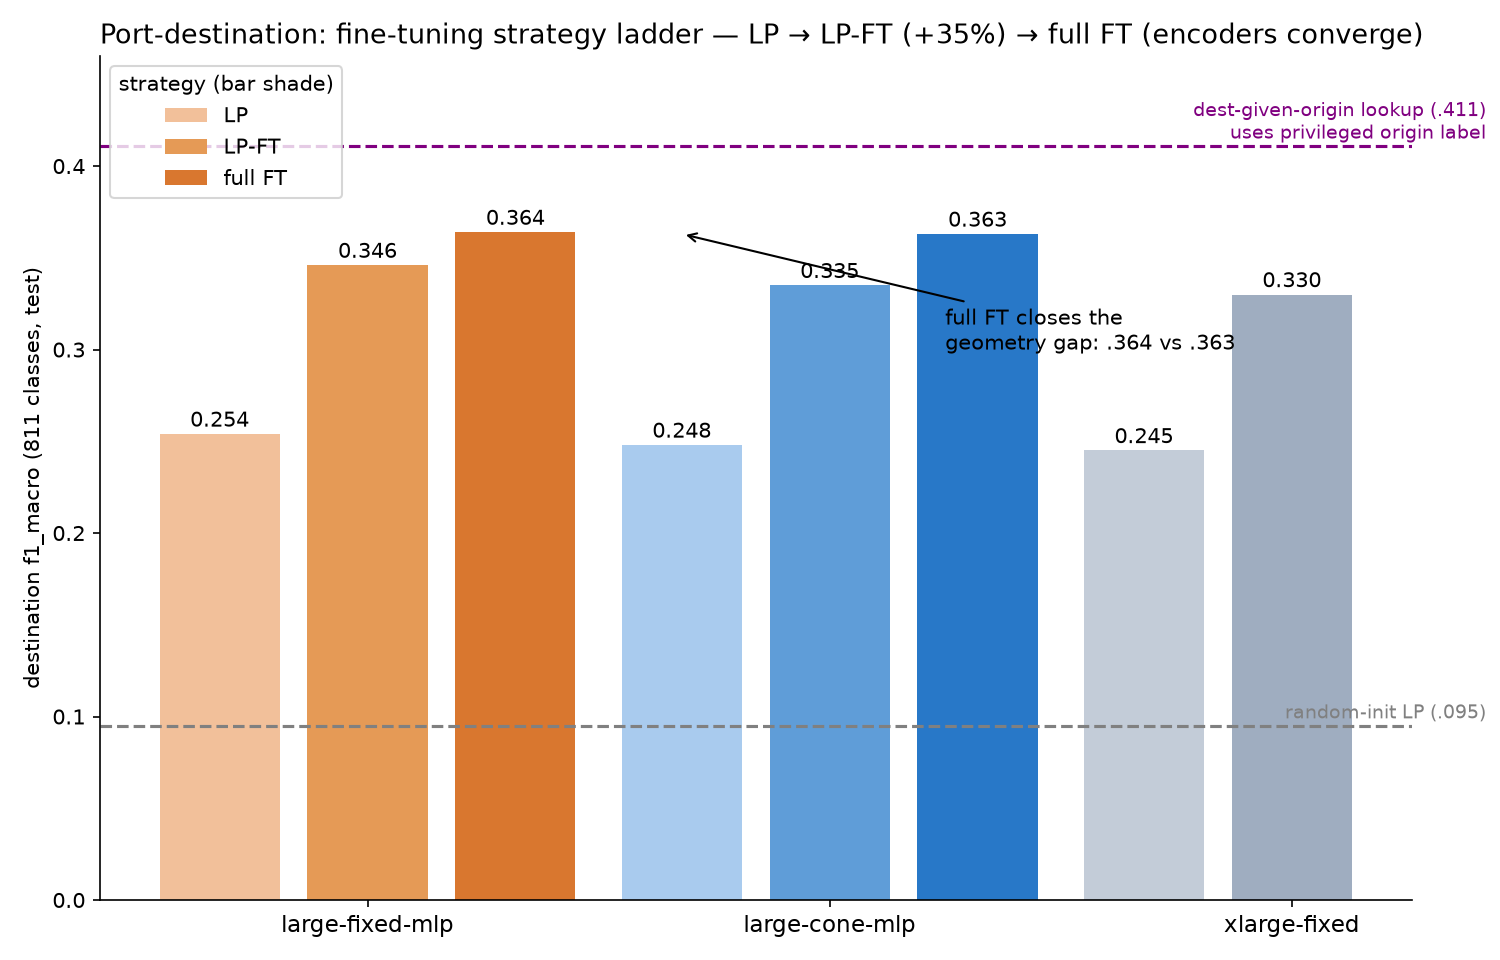
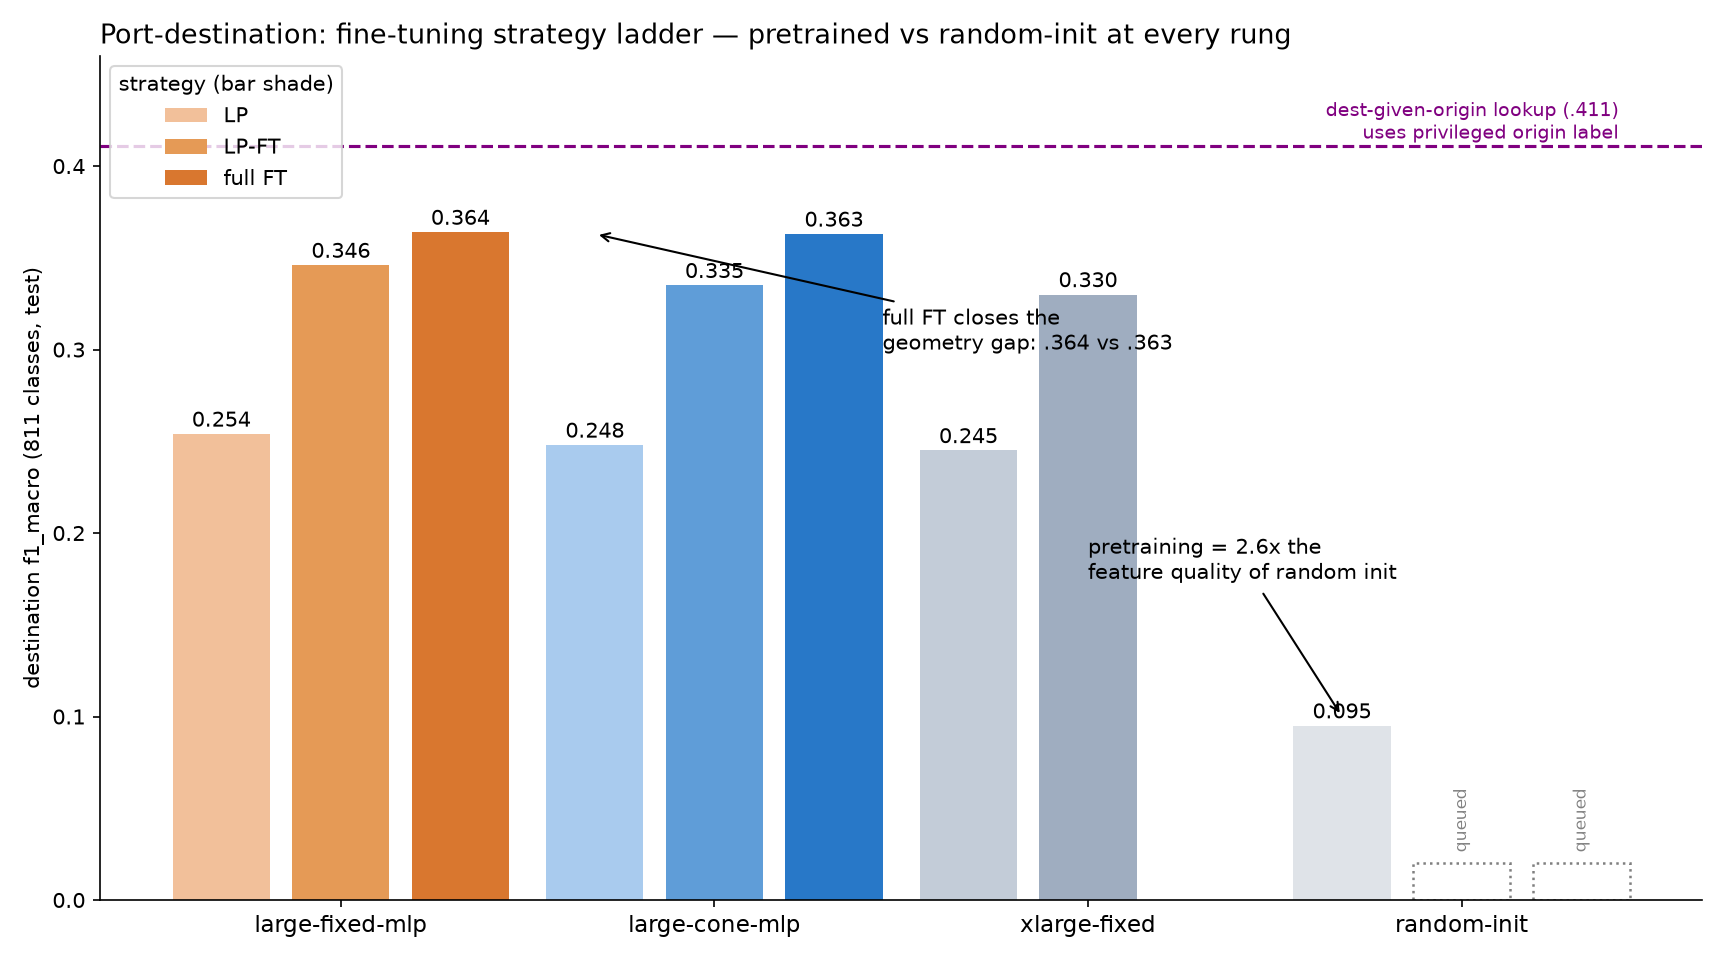
FT figures: random-init + dumb baseline in every panel (foundationness); CHAIN17 controls queued for missing cells
Claude-Session: https://claude.ai/code/session_01KwT3hEvkJiUSH9L354LuSS

diff --git a/scripts/gen_ft_round2_charts.py b/scripts/gen_ft_round2_charts.py
@@ -19,42 +19,50 @@ SLATE, LIGHT = "#8494a8", "#c0c6cc"
 OUT = "docs/figures"
 
 
-def strategy_progression():
-    encoders = ["large-fixed-mlp", "large-cone-mlp", "xlarge-fixed"]
-    lp = [0.254, 0.248, 0.245]
-    lpft = [0.346, 0.335, 0.330]
-    full = [0.364, 0.363, None]
+def strategy_progression(random_lpft=None, random_full=None):
+    """random_lpft/random_full: fill in when CHAIN17 controls land."""
+    encoders = ["large-fixed-mlp", "large-cone-mlp", "xlarge-fixed",
+                "random-init"]
+    lp = [0.254, 0.248, 0.245, 0.095]
+    lpft = [0.346, 0.335, 0.330, random_lpft]
+    full = [0.364, 0.363, None, random_full]
     shades = {  # one hue per encoder family, darkening with strategy
         "large-fixed-mlp": ["#f2c09a", "#e59a56", ORANGE],
         "large-cone-mlp": ["#a9cbee", "#5f9dd8", BLUE],
         "xlarge-fixed": ["#c3ccd8", "#9fadc0", SLATE],
+        "random-init": ["#dfe3e8", "#cdd3da", LIGHT],
     }
-    fig, ax = plt.subplots(figsize=(10, 6.4))
+    fig, ax = plt.subplots(figsize=(11.5, 6.4))
     width, gap = 0.26, 0.06
     for i, enc in enumerate(encoders):
         vals = [lp[i], lpft[i], full[i]]
         for j, (v, lab) in enumerate(zip(vals, ["LP", "LP-FT", "full FT"])):
-            if v is None:
-                continue
             x = i + (j - 1) * (width + gap)
+            if v is None:
+                if enc == "random-init":       # control queued (CHAIN17)
+                    ax.bar(x, 0.02, width, color="none", edgecolor="gray",
+                           ls=":", lw=1.2)
+                    ax.text(x, 0.026, "queued", ha="center", fontsize=8,
+                            color="gray", rotation=90, va="bottom")
+                continue
             ax.bar(x, v, width, color=shades[enc][j],
                    label=lab if i == 0 else None)
             ax.text(x, v + 0.004, f"{v:.3f}", ha="center", fontsize=10)
     ax.axhline(0.411, ls="--", color="purple", lw=1.5)
-    ax.text(2.42, 0.415, "dest-given-origin lookup (.411)\nuses privileged origin label",
+    ax.text(3.42, 0.415, "dest-given-origin lookup (.411)\nuses privileged origin label",
             color="purple", fontsize=9, ha="right")
-    ax.axhline(0.095, ls="--", color="gray", lw=1.5)
-    ax.text(2.42, 0.099, "random-init LP (.095)", color="gray", fontsize=9,
-            ha="right")
     ax.annotate("full FT closes the\ngeometry gap: .364 vs .363",
-                xy=(0.68, 0.363), xytext=(1.25, 0.30), fontsize=10,
+                xy=(0.68, 0.363), xytext=(1.45, 0.30), fontsize=10,
                 arrowprops=dict(arrowstyle="->", color="black", lw=1))
-    ax.set_xticks(range(3))
+    ax.annotate("pretraining = 2.6x the\nfeature quality of random init",
+                xy=(2.68, 0.10), xytext=(2.0, 0.175), fontsize=10,
+                arrowprops=dict(arrowstyle="->", color="black", lw=1))
+    ax.set_xticks(range(4))
     ax.set_xticklabels(encoders, fontsize=11)
     ax.set_ylabel("destination f1_macro (811 classes, test)")
     ax.set_ylim(0, 0.46)
     ax.set_title("Port-destination: fine-tuning strategy ladder — "
-                 "LP → LP-FT (+35%) → full FT (encoders converge)",
+                 "pretrained vs random-init at every rung",
                  loc="left", fontsize=13)
     ax.legend(title="strategy (bar shade)", loc="upper left", fontsize=10)
     ax.spines[["top", "right"]].set_visible(False)
@@ -125,22 +133,32 @@ def vessel_leaderboard():
     print("wrote ft_vessel_v2_leaderboard.png")
 
 
-def eta_chart():
+def eta_chart(random_mae=None, random_med=None):
+    """random_mae/med: fill in when the CHAIN17 control lands."""
     rows = [("xlarge-fixed", 505, 191, BLUE),
             ("large-cone-mlp", 517, 206, ORANGE),
             ("large-fixed-mlp", 524, 211, ORANGE),
             ("cone-spectrum", 544, 213, TEAL)]
+    if random_mae is not None:
+        rows.append(("random-init", random_mae, random_med, LIGHT))
     names = [r[0] for r in rows][::-1]
     mae = [r[1] for r in rows][::-1]
     med = [r[2] for r in rows][::-1]
     colors = [r[3] for r in rows][::-1]
-    fig, ax = plt.subplots(figsize=(9.5, 4.6))
+    fig, ax = plt.subplots(figsize=(10.5, 4.9))
     ax.barh(names, mae, color=colors)
     for i, (v, m) in enumerate(zip(mae, med)):
-        ax.text(v + 4, i, f"{v} min  (median {m})", va="center", fontsize=10)
+        ax.text(v + 6, i, f"{v} min  (median {m})", va="center", fontsize=10)
+    ax.axvline(775, ls="--", color="gray", lw=1.5)
+    ax.text(770, len(rows) - 0.62,
+            "predict train-median\nbaseline (775 / med 422)",
+            color="gray", fontsize=9, ha="right")
+    if random_mae is None:
+        ax.text(770, 0.52, "random-init control queued (CHAIN17)",
+                color="gray", fontsize=9, ha="right", style="italic")
     ax.set_xlabel("ETA mean absolute error, minutes (linear probe, test) — lower is better")
-    ax.set_xlim(0, 640)
-    ax.set_title("ETA regression: ordering REVERSES vs classification — "
+    ax.set_xlim(0, 830)
+    ax.set_title("ETA regression: all encoders beat the constant baseline; "
                  "capacity wins (116M best)", loc="left", fontsize=12.5)
     ax.spines[["top", "right"]].set_visible(False)
     fig.tight_layout()